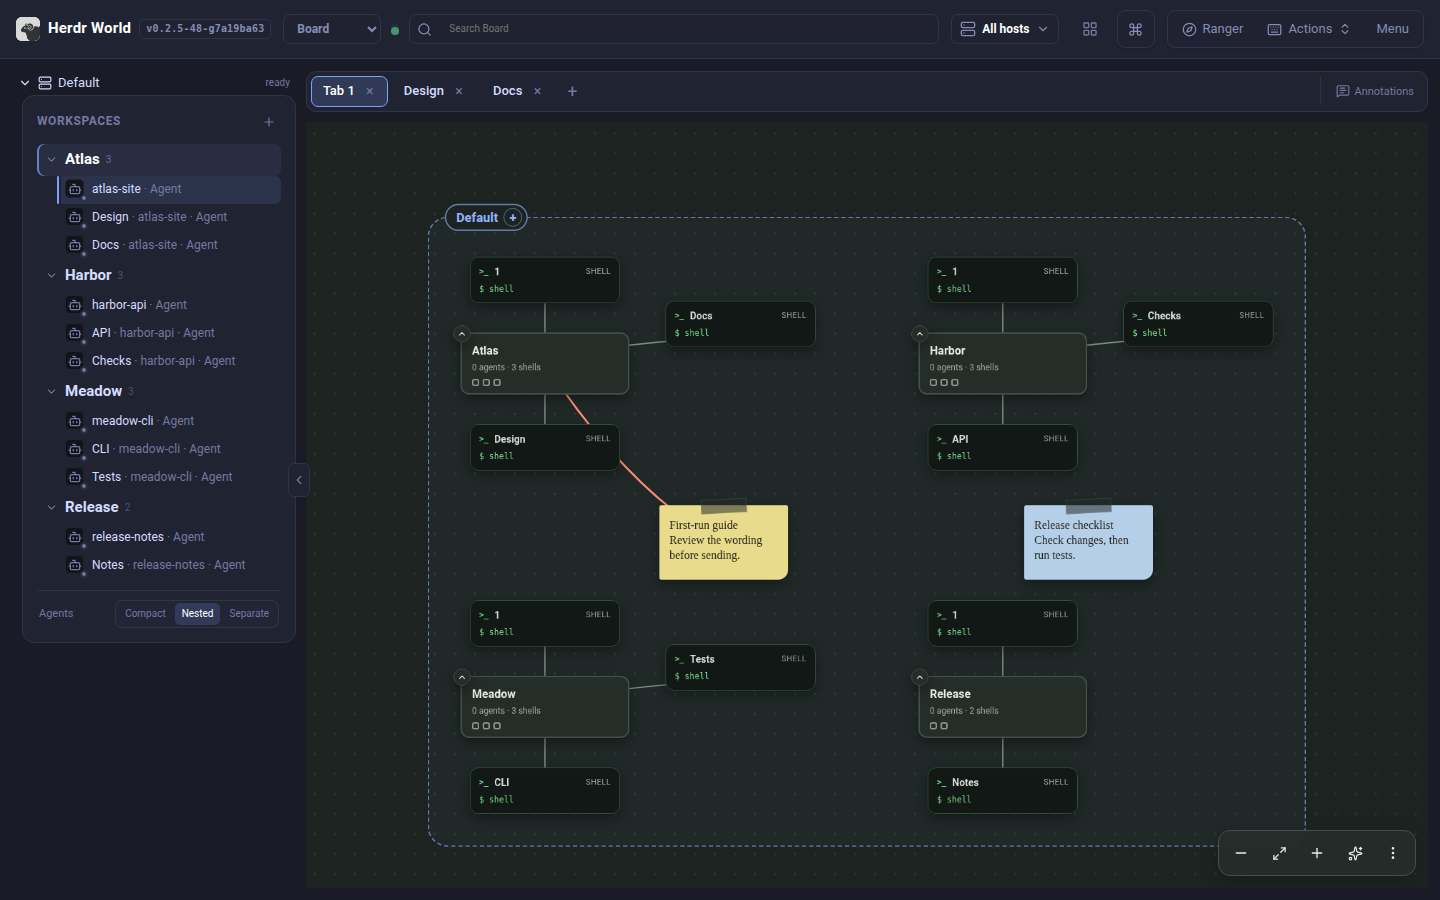
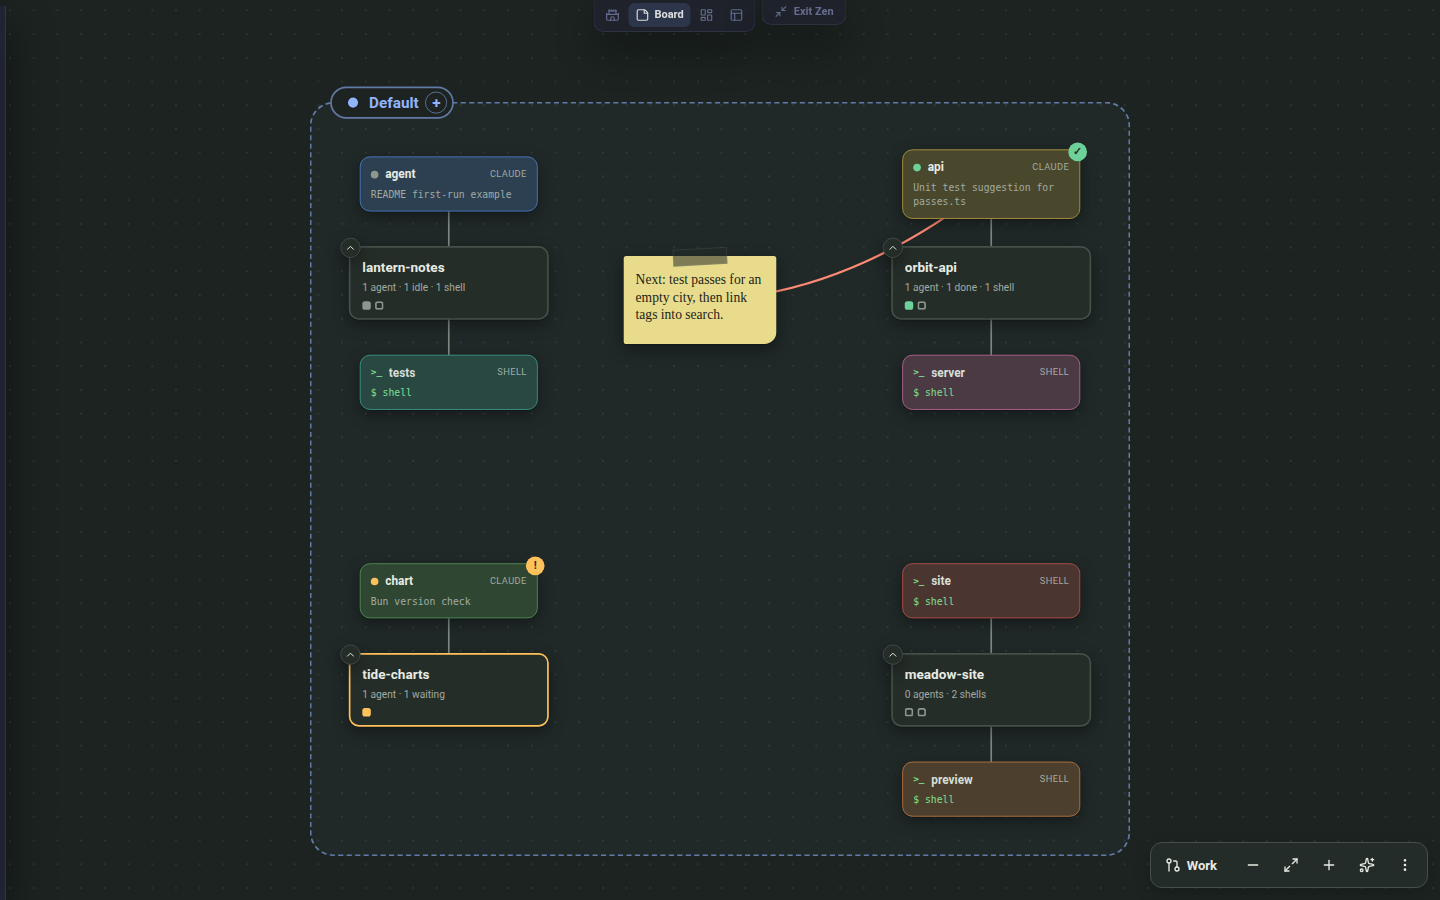
docs: recapture 0.2.7 screenshots with Chat
Recapture the shared README, tutorial and website screenshots from main
after v0.2.7 with real Claude Code agents in disposable workspaces, and
add desktop and phone Chat captures in place of the History capture.
Update the site showcase and phone row, the screenshot guide's table,
provenance and privacy notes, and let the site use a subset of the
README's phone captures.

diff --git a/site/index.html b/site/index.html
@@ -554,7 +554,7 @@
                 tabindex="0"
                 data-showcase-tab
                 data-image="./assets/herdr-world-desktop-town.png"
-                data-alt="Town showing four demo workspace rooms and terminal desks"
+                data-alt="Town with four demo workspace rooms, one agent waiting at reception and one finished"
                 data-label="Town"
                 data-title="Explore the town, then open the exact pane."
                 data-copy="Find agents waiting at reception, read their latest messages and open the exact terminal, files or changes."
@@ -589,7 +589,7 @@
                 data-alt="Spaces with a focused workspace and live terminal"
                 data-label="Spaces"
                 data-title="Focus on one workspace."
-                data-copy="Work in live terminal panes, browse files, review changes and read agent history on the workspace’s owning host."
+                data-copy="Work in live terminal panes, browse files, review changes and chat with agents on the workspace’s owning host."
               >
                 <span>03</span> Spaces
               </button>
@@ -602,7 +602,7 @@
                 tabindex="-1"
                 data-showcase-tab
                 data-image="./assets/herdr-world-desktop-files.png"
-                data-alt="Board Inspector previewing the Lantern Notes demo guide"
+                data-alt="Board Inspector previewing the Lantern Notes demo guide with its Mermaid diagram"
                 data-label="Files"
                 data-title="Inspect the repository without leaving the agent."
                 data-copy="Browse the selected workspace and keep its terminal, changes, and agent identity in one movable Inspector."
@@ -618,28 +618,28 @@
                 tabindex="-1"
                 data-showcase-tab
                 data-image="./assets/herdr-world-desktop-changes.png"
-                data-alt="Board Inspector showing the sample tag-filter working-tree diff"
+                data-alt="Board Inspector showing the README section an agent added"
                 data-label="Changes"
                 data-title="Review changes in their workspace context."
-                data-copy="See changed files and inspect a diff beside the selected workspace. This capture shows a sample tag-filter diff in the demo project."
+                data-copy="See changed files and inspect a diff beside the selected workspace. This capture shows the first-run section a Claude Code agent added to the demo README."
               >
                 <span>05</span> Changes
               </button>
               <button
                 type="button"
                 role="tab"
-                id="tab-history"
+                id="tab-chat"
                 aria-controls="showcase-panel"
                 aria-selected="false"
                 tabindex="-1"
                 data-showcase-tab
-                data-image="./assets/herdr-world-desktop-history.png"
-                data-alt="Board Inspector showing a recorded Pi review"
-                data-label="History"
-                data-title="Review what the agent actually did."
-                data-copy="Open Details in the agent's Chat to read its session record beside its workspace context, then return to the same live terminal."
+                data-image="./assets/herdr-world-desktop-chat.png"
+                data-alt="Town with an agent window docked on Chat, showing the agent's report on its README change"
+                data-label="Chat"
+                data-title="Read what the agent did and what it did not verify."
+                data-copy="Chat reads the agent's own transcript: its tool calls, the edit's diff and its report. Reply from the composer, or open Details for the full session record."
               >
-                <span>06</span> History
+                <span>06</span> Chat
               </button>
             </div>
 
@@ -805,10 +805,10 @@
             </figure>
             <figure class="phone phone-right">
               <div class="phone-speaker"></div>
-              <a href="./assets/herdr-world-mobile-spaces.png">
+              <a href="./assets/herdr-world-mobile-chat.png">
                 <img
-                  src="./assets/herdr-world-mobile-spaces.png"
-                  alt="Herdr.World Spaces terminal controls on mobile"
+                  src="./assets/herdr-world-mobile-chat.png"
+                  alt="An agent's Chat on a phone, with its answer and the composer"
                   width="390"
                   height="844"
                   loading="lazy"

diff --git a/scripts/pages-content.test.ts b/scripts/pages-content.test.ts
@@ -236,12 +236,17 @@ describe("Pages references", () => {
     );
     const screenshotPattern = /herdr-world-(?:desktop|mobile)-[a-z-]+\.png/g;
     const screenshots = [...new Set(readme.match(screenshotPattern))].sort();
-    expect(screenshots).toHaveLength(9);
+    expect(screenshots).toHaveLength(10);
     expect([...new Set(build.match(screenshotPattern))].sort()).toEqual(
       screenshots,
     );
-    expect([...new Set(site.match(screenshotPattern))].sort()).toEqual(
-      screenshots,
+    // The site's phone row has three slots; every desktop view still appears.
+    const siteScreenshots = [...new Set(site.match(screenshotPattern))].sort();
+    for (const image of siteScreenshots) expect(screenshots).toContain(image);
+    expect(siteScreenshots).toEqual(
+      expect.arrayContaining(
+        screenshots.filter((s) => s.includes("-desktop-")),
+      ),
     );
     for (const source of [site, tutorial, build]) {
       expect(source).not.toMatch(/herdr-studio-(?:desktop|mobile)-/);

diff --git a/scripts/build-pages.ts b/scripts/build-pages.ts
@@ -32,10 +32,8 @@ const assets = [
     "docs/images/herdr-world-desktop-changes.png",
     "herdr-world-desktop-changes.png",
   ],
-  [
-    "docs/images/herdr-world-desktop-history.png",
-    "herdr-world-desktop-history.png",
-  ],
+  ["docs/images/herdr-world-desktop-chat.png", "herdr-world-desktop-chat.png"],
+  ["docs/images/herdr-world-mobile-chat.png", "herdr-world-mobile-chat.png"],
   [
     "docs/images/herdr-world-mobile-spaces.png",
     "herdr-world-mobile-spaces.png",

diff --git a/docs/SCREENSHOTS.md b/docs/SCREENSHOTS.md
@@ -7,7 +7,7 @@ hosts, usernames, paths, sessions, and repository contents out of public assets.
 
 ## Prepare a reproducible scene
 
-1. Use the World release or branch being documented and a compatible Herdr runtime (current Town/Board captures use 0.9.3 / protocol 22).
+1. Use the World release or branch being documented and a compatible Herdr runtime (current captures use 0.9.3 / protocol 22).
    Record their exact versions and source revisions with the untracked capture
    originals. See [development](development.md) for a source build.
 2. Create disposable demo repositories with synthetic project names, source,
@@ -19,9 +19,17 @@ hosts, usernames, paths, sessions, and repository contents out of public assets.
    open resource's owning host before photographing any view.
 4. Follow the [tutorial's review task](TUTORIAL.md#daily) in a demo
    repository. Run actual supported agents in separate panes, including multiple
-   agents in one workspace. Review their diffs, and capture Terminal, Files,
-   Changes, and Agent History from panes in that synthetic workspace.
+   agents in one workspace. Review their diffs, and capture Chat, Terminal,
+   Files and Changes from panes in that synthetic workspace.
    Show completed work only when the captured session actually completed it.
+   Keep demo repositories at a path without user names (such as `/tmp/demo`),
+   because Chat shows the paths an agent's tools used. Agent terminals can show
+   private details that the page-text privacy scan cannot see: Claude Code's
+   status line (start it with a `--settings` status line of your own) and its
+   remote-control session link. Do not photograph an agent's Terminal view. If
+   World runs with a separate `HOME`, the harness transcripts it reads must
+   physically live under that `HOME`; World rejects symlinks that resolve
+   elsewhere.
 5. For mobile capture, use a reachable private World URL and the
    [remote-access guidance](DEPLOYMENT.md#private-remote-access). Do not photograph
    login tokens, URLs containing credentials, or certificate/private-key content.
@@ -34,38 +42,31 @@ PNG originals without adding fictional UI or agent conversations.
 
 | View | Shared file under `docs/images/` | Scene |
 | --- | --- | --- |
-| Desktop Town | `herdr-world-desktop-town.png` | Four disposable workspace rooms and live shell tables |
-| Desktop Board | `herdr-world-desktop-board.png` | The same workspaces as cards, terminal tabs and synthetic planning notes |
-| Desktop Spaces | `herdr-world-desktop-spaces.png` | Focused workspace and live terminal |
-| Desktop Files | `herdr-world-desktop-files.png` | Board Inspector previewing the restored Lantern Notes guide |
-| Desktop Changes | `herdr-world-desktop-changes.png` | Board Inspector with a seeded tag-filter working-tree diff |
-| Desktop History | `herdr-world-desktop-history.png` | Board Inspector with the genuine recorded Pi review |
-| Mobile Town | `herdr-world-mobile-town.png` | Town at phone width |
-| Mobile Board | `herdr-world-mobile-board.png` | Readable close-up of one workspace, two shell tabs and a strung planning note |
-| Mobile Spaces | `herdr-world-mobile-spaces.png` | Focused terminal and mobile controls |
+| Desktop Town | `herdr-world-desktop-town.png` | Four rooms; one agent waiting at reception, one finished, one in the lounge |
+| Desktop Board | `herdr-world-desktop-board.png` | The same workspaces as cards, with a synthetic note strung to an agent |
+| Desktop Spaces | `herdr-world-desktop-spaces.png` | Workspace list with agent states, Zen off, and a shell running `bun test` |
+| Desktop Chat | `herdr-world-desktop-chat.png` | Town with the agent window docked on Chat: request, tool rows and the agent's report |
+| Desktop Files | `herdr-world-desktop-files.png` | Board Inspector previewing `docs/guide.md` with its Mermaid diagram |
+| Desktop Changes | `herdr-world-desktop-changes.png` | Board Inspector with the README section the agent added (unified diff) |
+| Mobile Town | `herdr-world-mobile-town.png` | Town at phone width with the Needs you tray |
+| Mobile Chat | `herdr-world-mobile-chat.png` | An agent's Chat with its answer and the composer |
+| Mobile Board | `herdr-world-mobile-board.png` | Close-up of a note strung to an agent and its workspace |
+| Mobile Spaces | `herdr-world-mobile-spaces.png` | Focused terminal with the Composer/Direct controls |
 
-The current Town/Board captures follow main after the Board merge, using Herdr
-0.9.3 with disposable projects, real shell panes and synthetic planning notes.
-The mobile Board close-up uses a separate single-workspace scene with two tabs
-and a strung note, so its text remains readable at the native phone width.
-Their empty attention counts reflect the runtime; notes do not imply completed
-agent work. The README and tutorial identify these layouts with releases
-0.2.5–0.2.6; retain the exact capture revisions as provenance rather than claiming
-the images were recaptured for each release. Office, Tree and Graph have been retired from the
-application. Their images remain historical assets outside the shared site set;
-old `/office` addresses open Town, and `/graph` and `/tree` open Board. Their
-view implementations and dedicated tests have been removed, while the shared
-model modules used by Town remain. The Pages release badge follows GitHub's
-latest stable release rather than a hardcoded version.
-
-The Files, Changes and History captures use Board behind the same Inspector.
-They follow main at `4f8a079f` with Herdr 0.9.3 / protocol 22. The disposable
-Lantern Notes files were restored from the original demo session's read results;
-a reconstructed Git baseline supplies the sample tag-filter diff. History is the
-genuine Pi review recorded on 2 October 2026, resumed offline for display without
-new model turns. The sample diff is not a claim of newly completed agent work.
-Capture Files, Changes and History with Town or Board behind the Inspector.
-Refresh the resource content and its background together.
+The current set was captured for 0.2.7 from `main` at `2bd28f2f`, after the
+v0.2.7 release (only documentation commits sit above it, so the Spaces version
+badge reads `v0.2.7-11-g54bb8ac8`), with Herdr 0.9.3 / protocol 22, in the
+default Zen layout except desktop Spaces. Three real Claude Code agents ran in
+the demo workspaces: lantern-notes added a first-run section to its README (the
+Chat, Changes and Files captures), orbit-api suggested a unit test (mobile Chat)
+and tide-charts waited on a permission prompt (Town). The note on Board is
+synthetic. One Chat path the agent ran (`/tmp/…/try`) is elided because its
+original contained a session identifier; nothing else in the captures is edited.
+Office, Tree and Graph images, and the earlier History capture, remain
+historical assets outside the shared site set; old `/office` addresses open
+Town, and `/graph` and `/tree` open Board. The Pages release badge follows
+GitHub's latest stable release rather than a hardcoded version. The website's
+phone row shows three of the four mobile captures.
 
 Inspect every image for private data, clipped controls, stale host indicators,
 and misleading agent status before adding it to Git. Preserve raw capture

diff --git a/README.md b/README.md
@@ -60,39 +60,33 @@ Office, Tree and Graph have been retired: old `/office` addresses open Town, and
 
 ## Screenshots
 
-The Town and desktop Board captures show the layouts introduced in 0.2.5–0.2.6
-with four disposable workspaces. Mobile Board focuses on one workspace, two
-terminal tabs and a strung
-planning note. These scenes use real shell panes and synthetic notes. Empty
-attention counts reflect those scenes; no agent activity is fabricated. Click a screenshot to open it at full resolution.
+These captures show 0.2.7 with four disposable workspaces on a throwaway Herdr
+session. Three real Claude Code agents ran small tasks there: one added a
+first-run section to the demo README, one is waiting on you and one has
+finished. The notes and terminal commands are synthetic. Click a screenshot to
+open it at full resolution.
 
 ### Desktop
 
-| Town: buildings, rooms and team tables | Board: workspace cards, tabs and notes |
+| Town: buildings, rooms and reception | Board: workspace cards, tabs and a strung note |
 | --- | --- |
-| [![Town with four workspace rooms and live terminal tables](./docs/images/herdr-world-desktop-town.png)](./docs/images/herdr-world-desktop-town.png) | [![Board with four workspace cards, terminal tabs and planning notes](./docs/images/herdr-world-desktop-board.png)](./docs/images/herdr-world-desktop-board.png) |
+| [![Town with four workspace rooms, one agent waiting at reception and one finished](./docs/images/herdr-world-desktop-town.png)](./docs/images/herdr-world-desktop-town.png) | [![Board with four workspace cards, terminal tabs and a note strung to an agent](./docs/images/herdr-world-desktop-board.png)](./docs/images/herdr-world-desktop-board.png) |
 
-[![Spaces with a focused workspace and live terminal](./docs/images/herdr-world-desktop-spaces.png)](./docs/images/herdr-world-desktop-spaces.png)
+[![Spaces with the workspace list and a live terminal](./docs/images/herdr-world-desktop-spaces.png)](./docs/images/herdr-world-desktop-spaces.png)
 
-The shared Inspector keeps Terminal, Files, Changes and agent Chat alongside
-its captured workspace, whether opened from Town, Board or Desk. See the
+Each agent has one window with Chat, Terminal, Files and Changes, whether
+opened from Town, Board or Desk. See [Chat](./docs/CHAT.md) and the
 [tutorial's review exercise](./docs/TUTORIAL.md#daily) for the complete flow.
-The Files, Changes and History captures below show the Inspector over Board;
-the History view is now **Details** inside [Chat](./docs/CHAT.md).
-They use a restored demo project, a sample working-tree diff and a genuine
-recorded Pi review.
 
-| Files | Changes | Agent History |
+| Chat | Files | Changes |
 | --- | --- | --- |
-| [![Board Inspector previewing the demo guide](./docs/images/herdr-world-desktop-files.png)](./docs/images/herdr-world-desktop-files.png) | [![Board Inspector showing the sample tag-filter diff](./docs/images/herdr-world-desktop-changes.png)](./docs/images/herdr-world-desktop-changes.png) | [![Board Inspector showing a recorded Pi review](./docs/images/herdr-world-desktop-history.png)](./docs/images/herdr-world-desktop-history.png) |
+| [![Town with an agent window docked on Chat, showing its report on a README change](./docs/images/herdr-world-desktop-chat.png)](./docs/images/herdr-world-desktop-chat.png) | [![Board Inspector previewing the demo guide](./docs/images/herdr-world-desktop-files.png)](./docs/images/herdr-world-desktop-files.png) | [![Board Inspector showing the README section the agent added](./docs/images/herdr-world-desktop-changes.png)](./docs/images/herdr-world-desktop-changes.png) |
 
 ### Mobile
 
-[![Board close-up with a workspace, terminal tabs and a strung planning note](./docs/images/herdr-world-mobile-board.png)](./docs/images/herdr-world-mobile-board.png)
-
-| Town | Spaces |
-| --- | --- |
-| [![Town at phone width](./docs/images/herdr-world-mobile-town.png)](./docs/images/herdr-world-mobile-town.png) | [![Spaces terminal and touch controls](./docs/images/herdr-world-mobile-spaces.png)](./docs/images/herdr-world-mobile-spaces.png) |
+| Town | Chat | Board | Spaces |
+| --- | --- | --- | --- |
+| [![Town at phone width with the Needs you tray](./docs/images/herdr-world-mobile-town.png)](./docs/images/herdr-world-mobile-town.png) | [![An agent's Chat on a phone](./docs/images/herdr-world-mobile-chat.png)](./docs/images/herdr-world-mobile-chat.png) | [![Board close-up of a note strung to an agent](./docs/images/herdr-world-mobile-board.png)](./docs/images/herdr-world-mobile-board.png) | [![Spaces terminal and touch controls](./docs/images/herdr-world-mobile-spaces.png)](./docs/images/herdr-world-mobile-spaces.png) |
 
 ## Quick start
 

diff --git a/docs/TUTORIAL.md b/docs/TUTORIAL.md
@@ -307,7 +307,7 @@ check the diff using chapter 2 before treating the work as complete.
 **You are done when:** you can find an agent on the expected host, read its peek,
 and open its terminal or Inspector without losing its workspace context.
 
-![Town with four disposable workspace rooms and live terminal tables](./images/herdr-world-desktop-town.png)
+![Town with four disposable workspace rooms, one agent waiting at reception and one finished](./images/herdr-world-desktop-town.png)
 
 ![Town at phone width](./images/herdr-world-mobile-town.png)
 
@@ -370,6 +370,10 @@ read a conversation, it says why and offers the matching action. The
 
 **You are done when:** you sent an agent a message from Chat and its receipt
 shows it in the transcript.
+
+![Town with an agent window docked on Chat, showing its report on a README change](./images/herdr-world-desktop-chat.png)
+
+![An agent's Chat on a phone](./images/herdr-world-mobile-chat.png)
 
 ### Return after backgrounding
 
@@ -561,9 +565,9 @@ there in a bug report.
 **You are done when:** you can find your workspace card, pin a note and string it
 to the intended workspace or pane. Read the target before using **Send**.
 
-![Board with four workspace cards, terminal tabs and planning notes](./images/herdr-world-desktop-board.png)
+![Board with four workspace cards, terminal tabs and a note strung to an agent](./images/herdr-world-desktop-board.png)
 
-![Board close-up of a workspace, terminal tabs and a strung planning note](./images/herdr-world-mobile-board.png)
+![Board close-up of a note strung to an agent](./images/herdr-world-mobile-board.png)
 
 The Town and Board screenshots use real shell panes in disposable projects.
 The phone Board close-up focuses one workspace, its tabs and a strung note.

diff --git a/changes/docs-027.md b/changes/docs-027.md
@@ -9,3 +9,6 @@
 - Distinguish the published 0.2.7 standalone install/upgrade behavior and opt-out
   from Homebrew's missing-only setup and the unreleased source installer fix.
   Match Chat's Configuration path, transcript-tail tool call and receipt labels.
+- Recapture the README, tutorial and website screenshots for 0.2.7 with real
+  Claude Code agents in disposable workspaces, and add desktop and phone Chat
+  captures in place of the History capture.
